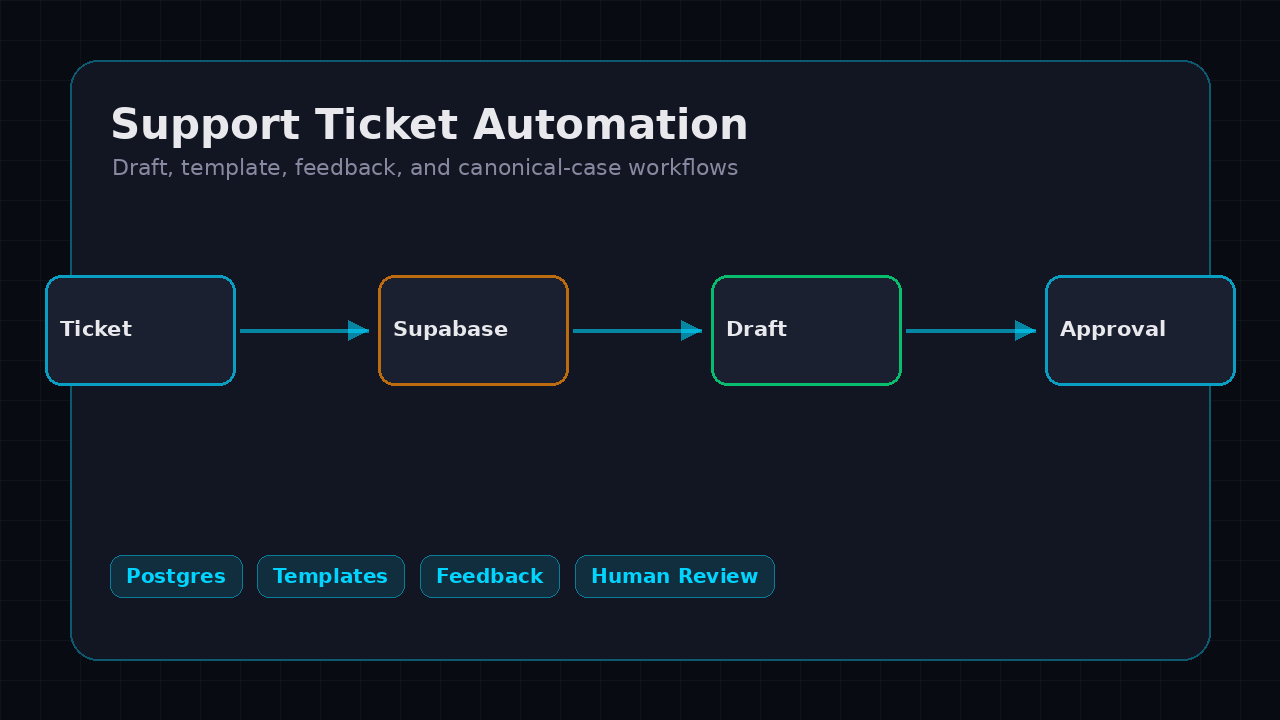
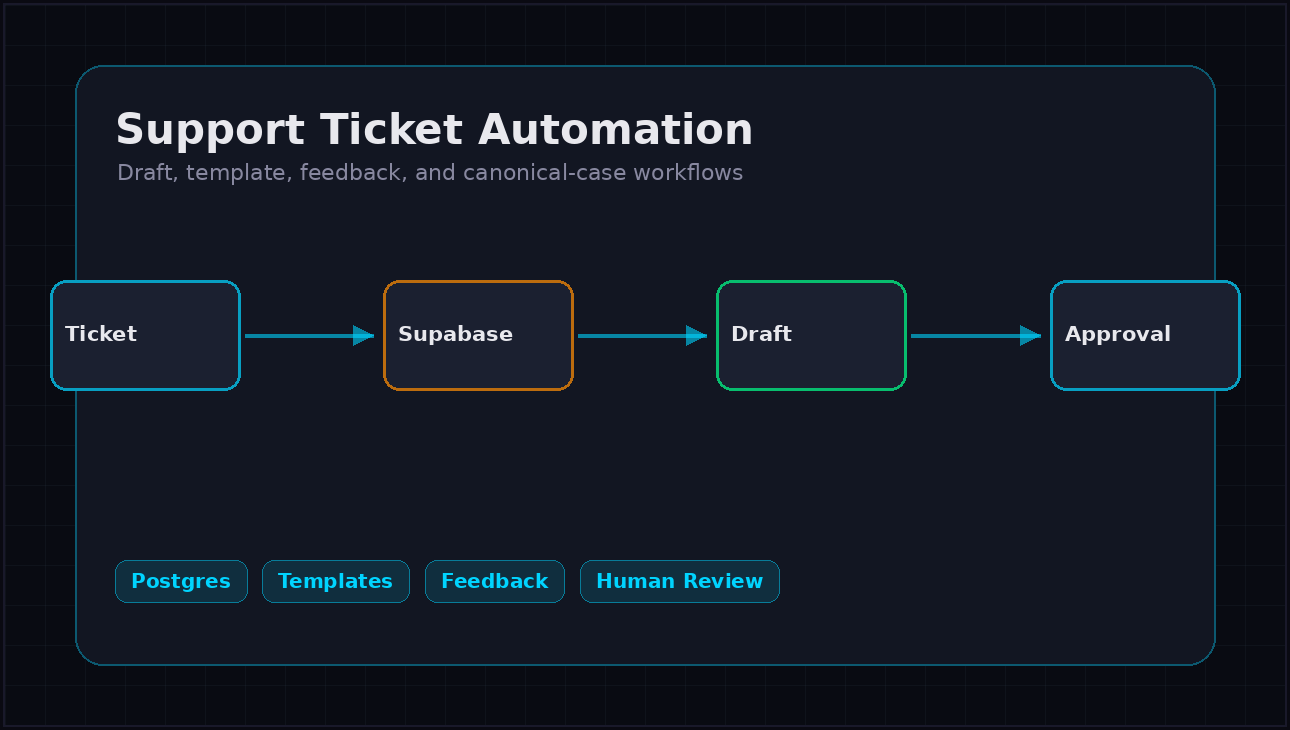
fix: reframe portfolio images and polish project card CSS

diff --git a/index.html b/index.html
@@ -884,51 +884,88 @@ section {
    PORTFOLIO PROOF ENHANCEMENTS
    ============================================ */
 .project-visual.screenshot {
-  height: 220px;
+  position: relative;
+  aspect-ratio: 16 / 9;
   padding: 0;
   background: var(--bg-base);
+  overflow: hidden;
+  border-bottom: 1px solid rgba(255,255,255,0.06);
 }
 .project-screenshot {
   width: 100%;
   height: 100%;
-  object-fit: cover;
+  object-fit: contain;
   display: block;
-  filter: saturate(0.95) contrast(1.04);
+  background: var(--bg-base);
+  transition: transform 0.45s cubic-bezier(0.22, 1, 0.36, 1),
+              filter 0.45s ease;
+}
+.project-card:hover .project-screenshot {
+  transform: scale(1.03);
+  filter: brightness(1.06) contrast(1.03);
+}
+/* Image hover overlay */
+.project-visual.screenshot::after {
+  content: '';
+  position: absolute;
+  inset: 0;
+  background: linear-gradient(
+    to bottom,
+    transparent 60%,
+    rgba(6, 6, 10, 0.6) 100%
+  );
+  opacity: 0;
+  transition: opacity 0.35s ease;
+  pointer-events: none;
+}
+.project-card:hover .project-visual.screenshot::after {
+  opacity: 1;
 }
 .stack-tags {
   display: flex;
   flex-wrap: wrap;
-  gap: 0.45rem;
+  gap: 0.4rem;
   margin: 1rem 0 1.1rem;
 }
 .stack-tag {
   font-family: var(--font-mono);
-  font-size: 0.58rem;
+  font-size: 0.55rem;
   color: var(--cyan);
-  background: var(--cyan-glow);
-  border: 1px solid var(--cyan-dim);
-  border-radius: 999px;
-  padding: 0.28rem 0.55rem;
+  background: rgba(0, 212, 255, 0.06);
+  border: 1px solid rgba(0, 212, 255, 0.15);
+  border-radius: 4px;
+  padding: 0.2rem 0.5rem;
   letter-spacing: 0.04em;
+  transition: all 0.2s;
+}
+.project-card:hover .stack-tag {
+  background: rgba(0, 212, 255, 0.1);
+  border-color: rgba(0, 212, 255, 0.25);
 }
 .case-points {
   list-style: none;
   display: grid;
-  gap: 0.45rem;
-  margin-top: 0.9rem;
+  gap: 0.4rem;
+  margin-top: 0.8rem;
 }
 .case-points li {
-  font-size: 0.78rem;
+  font-size: 0.76rem;
   color: var(--text-secondary);
   line-height: 1.45;
   display: grid;
-  grid-template-columns: 4.8rem 1fr;
-  gap: 0.6rem;
+  grid-template-columns: 4.5rem 1fr;
+  gap: 0.5rem;
+  padding: 0.3rem 0.4rem;
+  border-radius: 4px;
+  transition: background 0.2s;
+}
+.project-card:hover .case-points li {
+  background: rgba(255,255,255,0.02);
 }
 .case-label {
   font-family: var(--font-mono);
   color: var(--amber);
-  font-size: 0.62rem;
+  font-size: 0.6rem;
   text-transform: uppercase;
   letter-spacing: 0.08em;
 }
@@ -995,7 +1032,7 @@ section {
   font-size: 0.86rem;
 }
 @media (max-width: 768px) {
-  .project-visual.screenshot { height: 180px; }
+  .project-visual.screenshot { aspect-ratio: 16 / 9; }
   .case-points li { grid-template-columns: 1fr; gap: 0.15rem; }
 }
 
